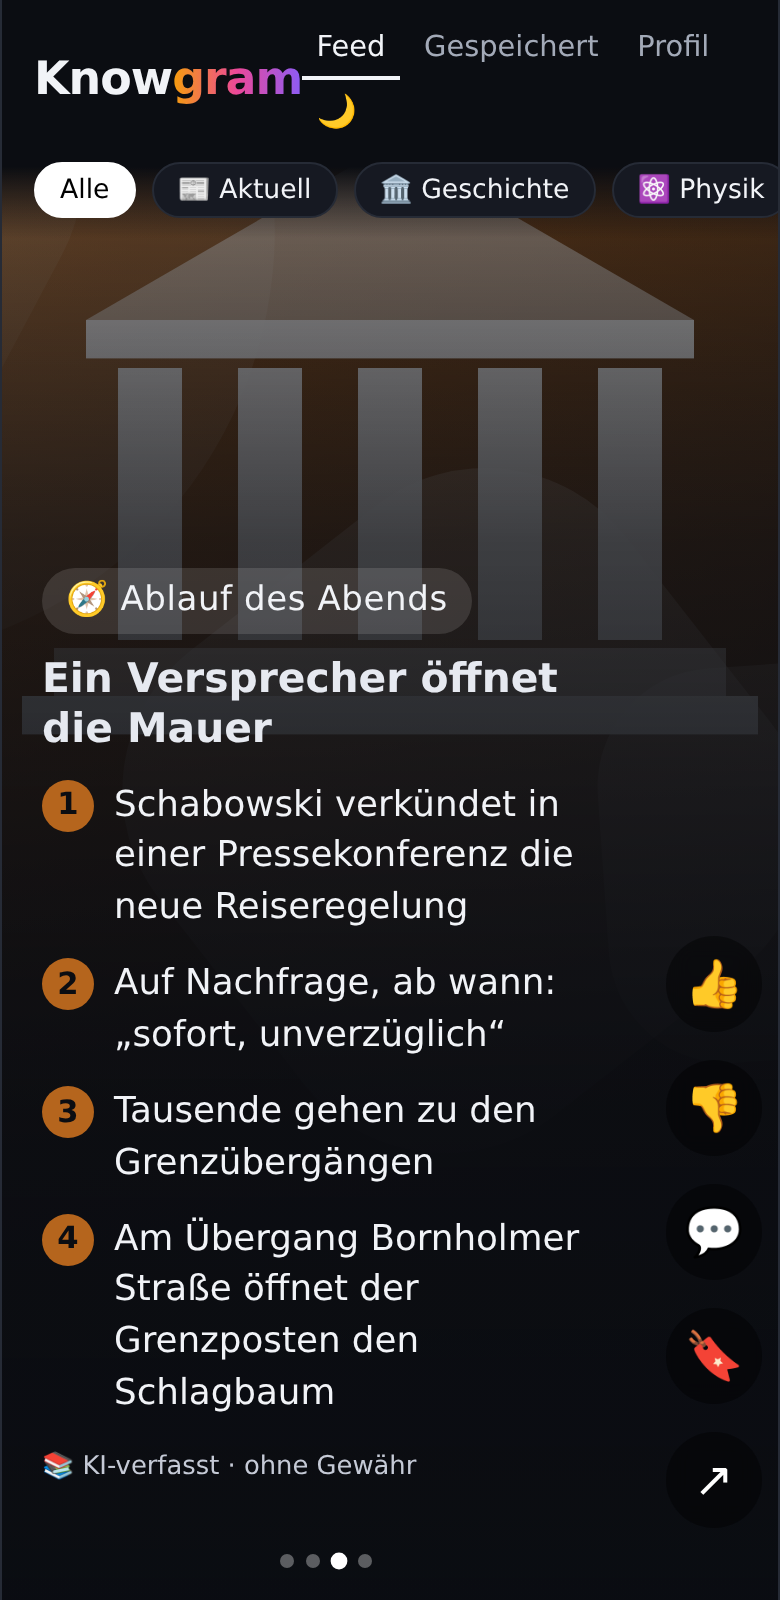
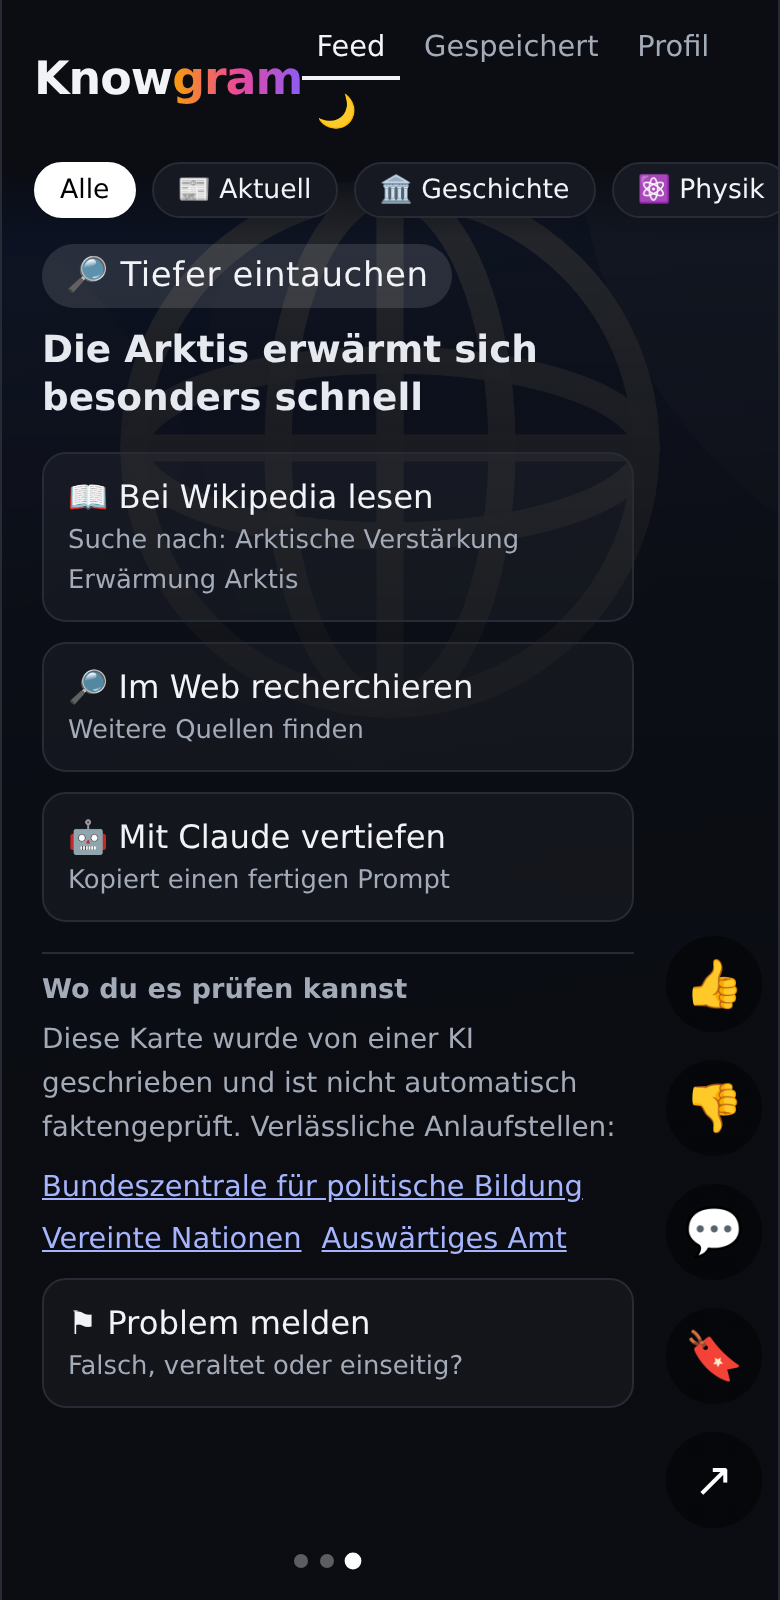
Feed in kleinen Chargen (10 statt alle Karten auf einmal): behebt Speicher-Absturz beim Start auf dem iPhone

diff --git a/app.js b/app.js
@@ -237,6 +237,7 @@
     return { kind: "check", topic: k, shown: st[k].shown };
   };
 
+  const BATCH = 10;
   const nextBatch = () => {
     const st = topicStats(), W = weights(st), keep = (c) => ratingOf(c.id) >= 0 && !S.reports[c.id];   // 👎- und gemeldete Karten kommen nicht wieder
     const w = spread(weightedShuffle(wissenPool().filter(keep), W, st).sort((a, b) => SEEN.has(a.id) - SEEN.has(b.id))); // Ungesehenes zuerst
@@ -244,10 +245,14 @@
     if (topic === "brief") { finite = true; return n; }   // Reihenfolge = Wichtigkeit
     if (!w.length) { finite = true; return n.slice().sort((a, b) => SEEN.has(a.id) - SEEN.has(b.id)); }          // reine News-Ansicht: einmal durch, dann Ende
     finite = false;
-    if (w.length > 1 && w[0].id === lastId) w.push(w.shift());
-    lastId = w[w.length - 1].id;
+    // Nur eine kleine Charge auf einmal aufbauen (sonst hunderte Vollbild-Karten im Speicher → iPhone-Safari stürzt ab)
+    const inFeed = new Set([...feed.querySelectorAll(".card")].map((e) => e.dataset.id));
+    const fresh = w.filter((c) => !inFeed.has(c.id));
+    const list = (fresh.length ? fresh : w).slice(0, BATCH);
+    if (list.length > 1 && list[0].id === lastId) list.push(list.shift());
+    lastId = list[list.length - 1].id;
     const out = [];
-    w.forEach((c, i) => {
+    list.forEach((c, i) => {
       out.push(c);
       if ((i + 1) % 3 === 0 && newsPtr < n.length) out.push(n[newsPtr++]);   // jede Meldung höchstens einmal
     });

diff --git a/sw.js b/sw.js
@@ -1,4 +1,4 @@
-const CACHE = "knowgram-v15";
+const CACHE = "knowgram-v16";
 const FILES = ["./", "index.html", "style.css", "app.js", "cards.js", "art.js", "config.js", "manifest.webmanifest", "icon.svg", "icon-192.png", "icon-512.png"];
 self.addEventListener("install", (e) => { e.waitUntil(caches.open(CACHE).then((c) => c.addAll(FILES))); self.skipWaiting(); });
 self.addEventListener("activate", (e) => { e.waitUntil(caches.keys().then((ks) => Promise.all(ks.filter((k) => k !== CACHE).map((k) => caches.delete(k))))); self.clients.claim(); });
